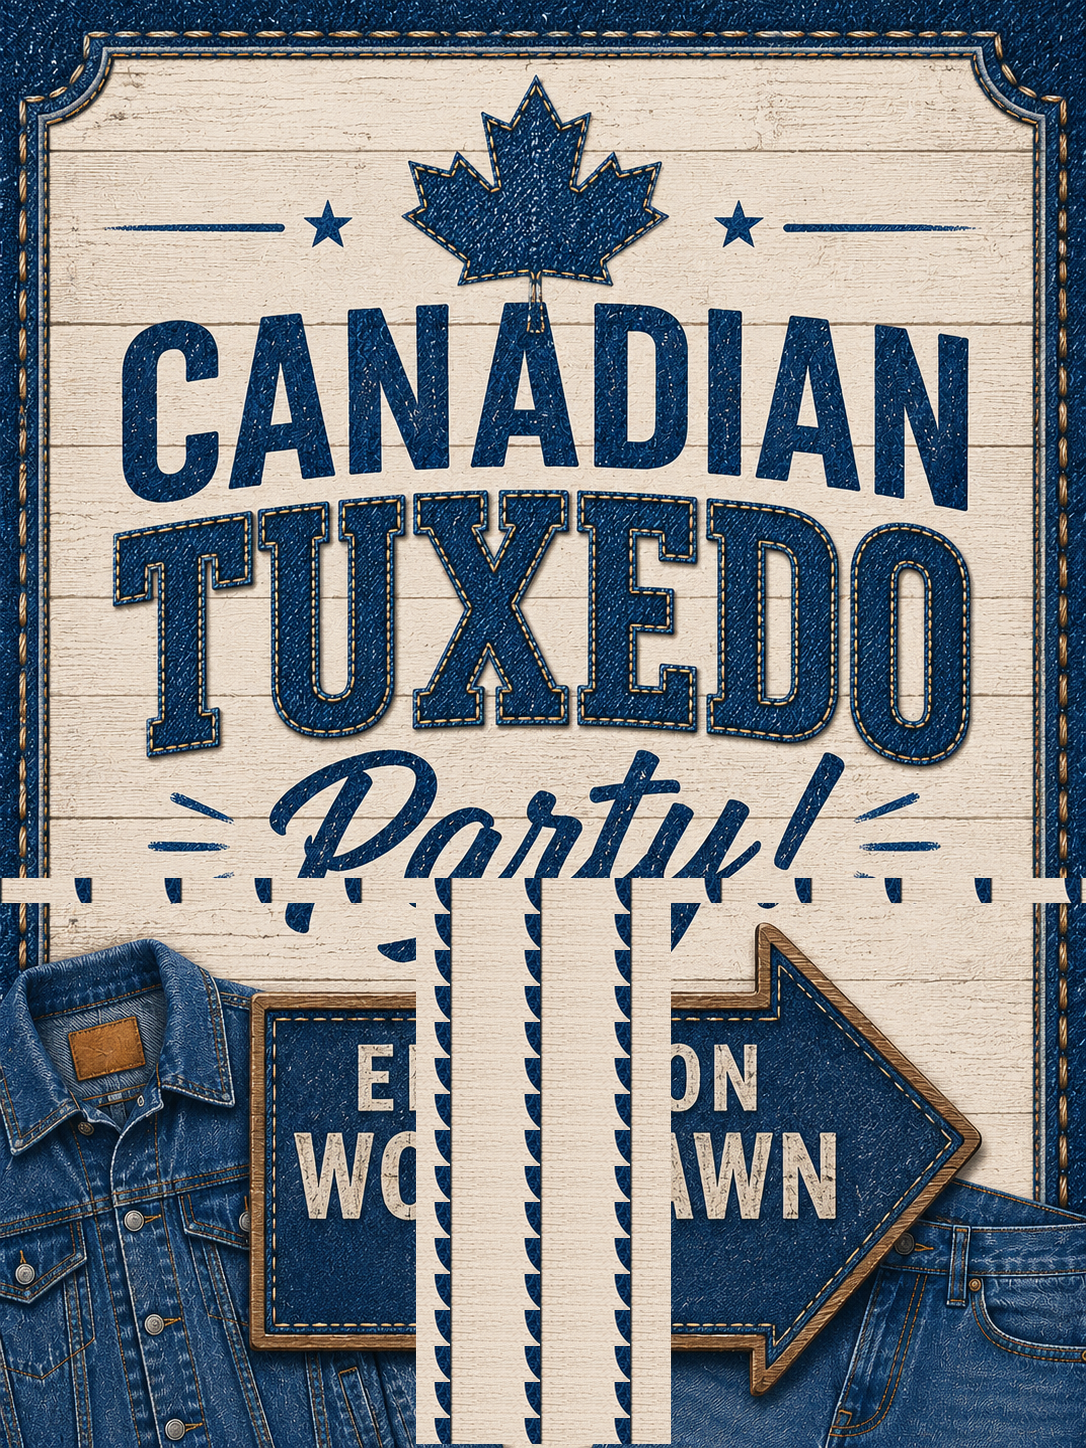
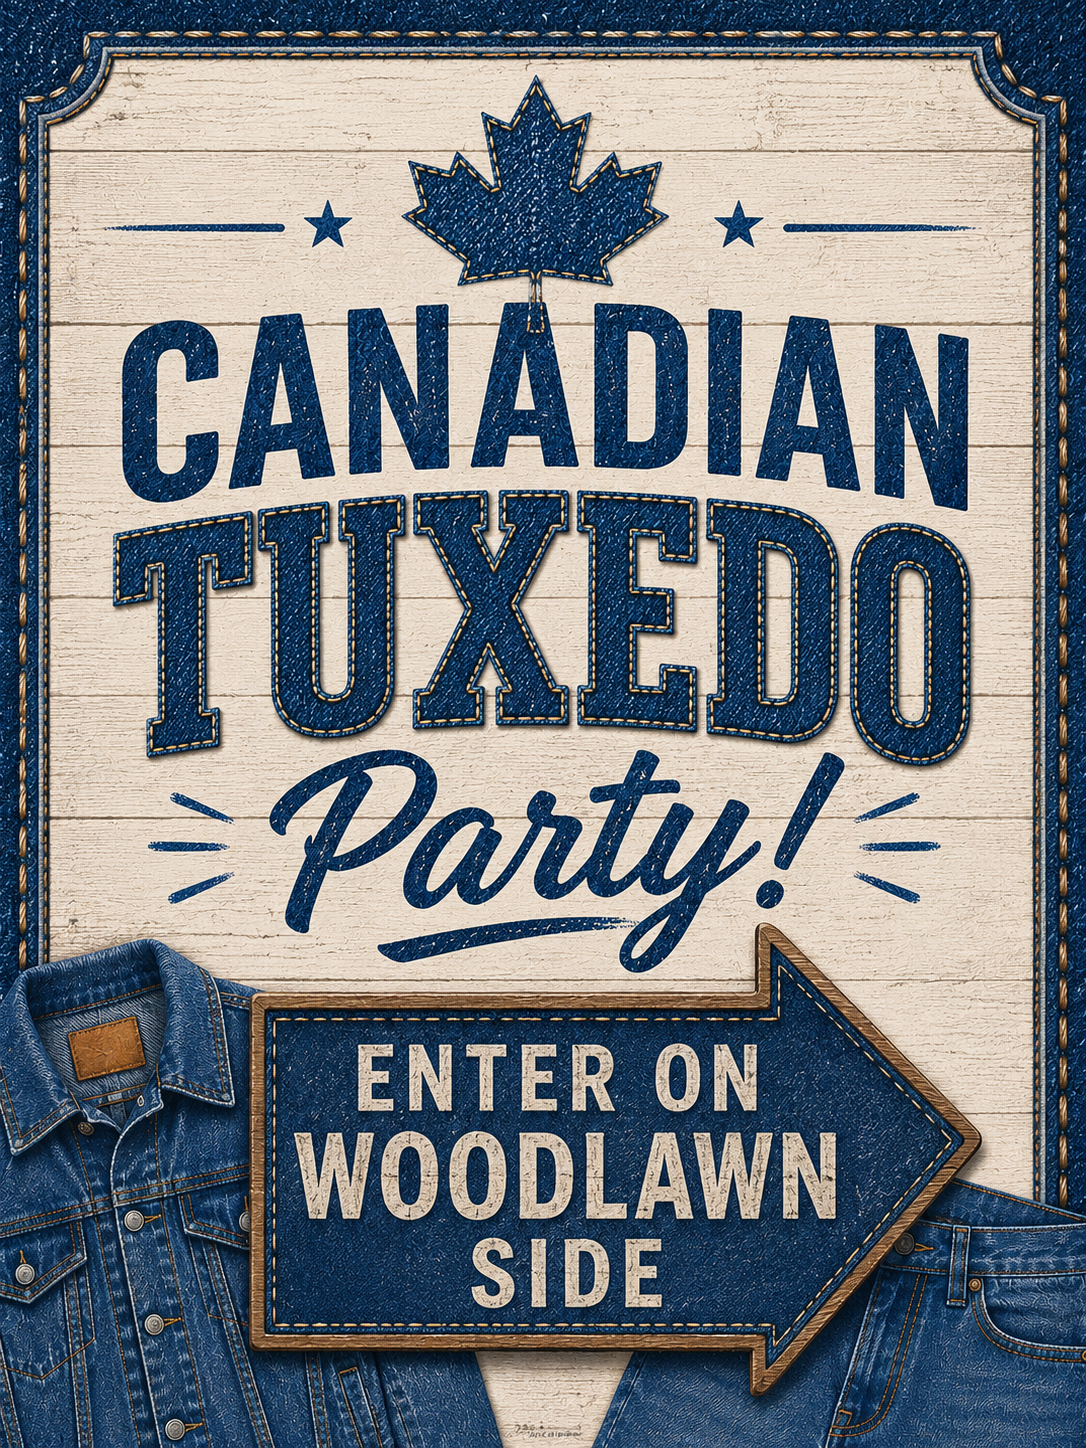
Restore clean hero poster on the homepage.
Replace the corrupted poster asset with the original artwork and update hero image markup with correct dimensions and alt text.

diff --git a/index.html b/index.html
@@ -81,10 +81,10 @@
         <div class="hero__poster-wrap">
           <img
             class="hero__poster"
-            src="assets/poster.png"
-            alt="Canadian Tuxedo Party poster — denim on denim"
-            width="800"
-            height="1000"
+            src="/assets/poster.png"
+            alt="Canadian Tuxedo Party poster — denim on denim, enter on the Woodlawn side"
+            width="1086"
+            height="1448"
             fetchpriority="high"
           >
         </div>

diff --git a/scripts/edit-poster.py b/scripts/edit-poster.py
@@ -1,35 +1,41 @@
 from PIL import Image, ImageDraw
-import subprocess
 
-root = r"c:\Users\kyle\OneDrive\Desktop\Canadian Tuxedo Party"
-path = root + r"\assets\poster.png"
+ROOT = r"c:\Users\kyle\OneDrive\Desktop\Canadian Tuxedo Party"
+SOURCE = ROOT + r"\Canadian Tuxedo Party.png"
+OUTPUT = ROOT + r"\assets\poster.png"
 
-subprocess.run(["git", "checkout", "HEAD", "--", "assets/poster.png"], cwd=root, check=True)
 
-im = Image.open(path).convert("RGB")
-w, h = im.size
+def main() -> None:
+    im = Image.open(SOURCE).convert("RGB")
+    width, height = im.size
 
-# Narrow left-edge wood tile — tile without horizontal stretch
-tile = im.crop((48, 462, 138, 498))
+    # Wood plank tile from the background (avoid stretching artifacts).
+    tile = im.crop((48, 462, 138, 498))
+    tile_w, tile_h = tile.size
 
-cover_top = 878
-cover_h = h - cover_top - 4
-tile_w, tile_h = tile.size
-wood = Image.new("RGB", (w, cover_h))
-for y in range(0, cover_h, tile_h):
-    for x in range(0, w, tile_w):
-        wood.paste(tile, (x, y))
+    cover_top = 878
+    cover_h = height - cover_top
+    wood = Image.new("RGB", (width, cover_h))
+    for y in range(0, cover_h, tile_h):
+        for x in range(0, width, tile_w):
+            wood.paste(tile, (x, y))
 
-result = im.copy()
-result.paste(wood, (0, cover_top))
+    result = im.copy()
+    result.paste(wood, (0, cover_top))
 
-left = Image.new("L", (w, h), 0)
-ImageDraw.Draw(left).rectangle([0, h - 545, 415, h], fill=255)
-right = Image.new("L", (w, h), 0)
-ImageDraw.Draw(right).rectangle([w - 415, h - 545, w, h], fill=255)
+    # Restore denim jacket (left) and jeans (right) corners.
+    left_mask = Image.new("L", (width, height), 0)
+    ImageDraw.Draw(left_mask).rectangle([0, height - 545, 415, height], fill=255)
 
-result.paste(im, (0, 0), left)
-result.paste(im, (0, 0), right)
+    right_mask = Image.new("L", (width, height), 0)
+    ImageDraw.Draw(right_mask).rectangle([width - 415, height - 545, width, height], fill=255)
 
-result.save(path, optimize=True)
-print("saved", path, result.size)
+    result.paste(im, (0, 0), left_mask)
+    result.paste(im, (0, 0), right_mask)
+
+    result.save(OUTPUT, optimize=True)
+    print("saved", OUTPUT, result.size)
+
+
+if __name__ == "__main__":
+    main()